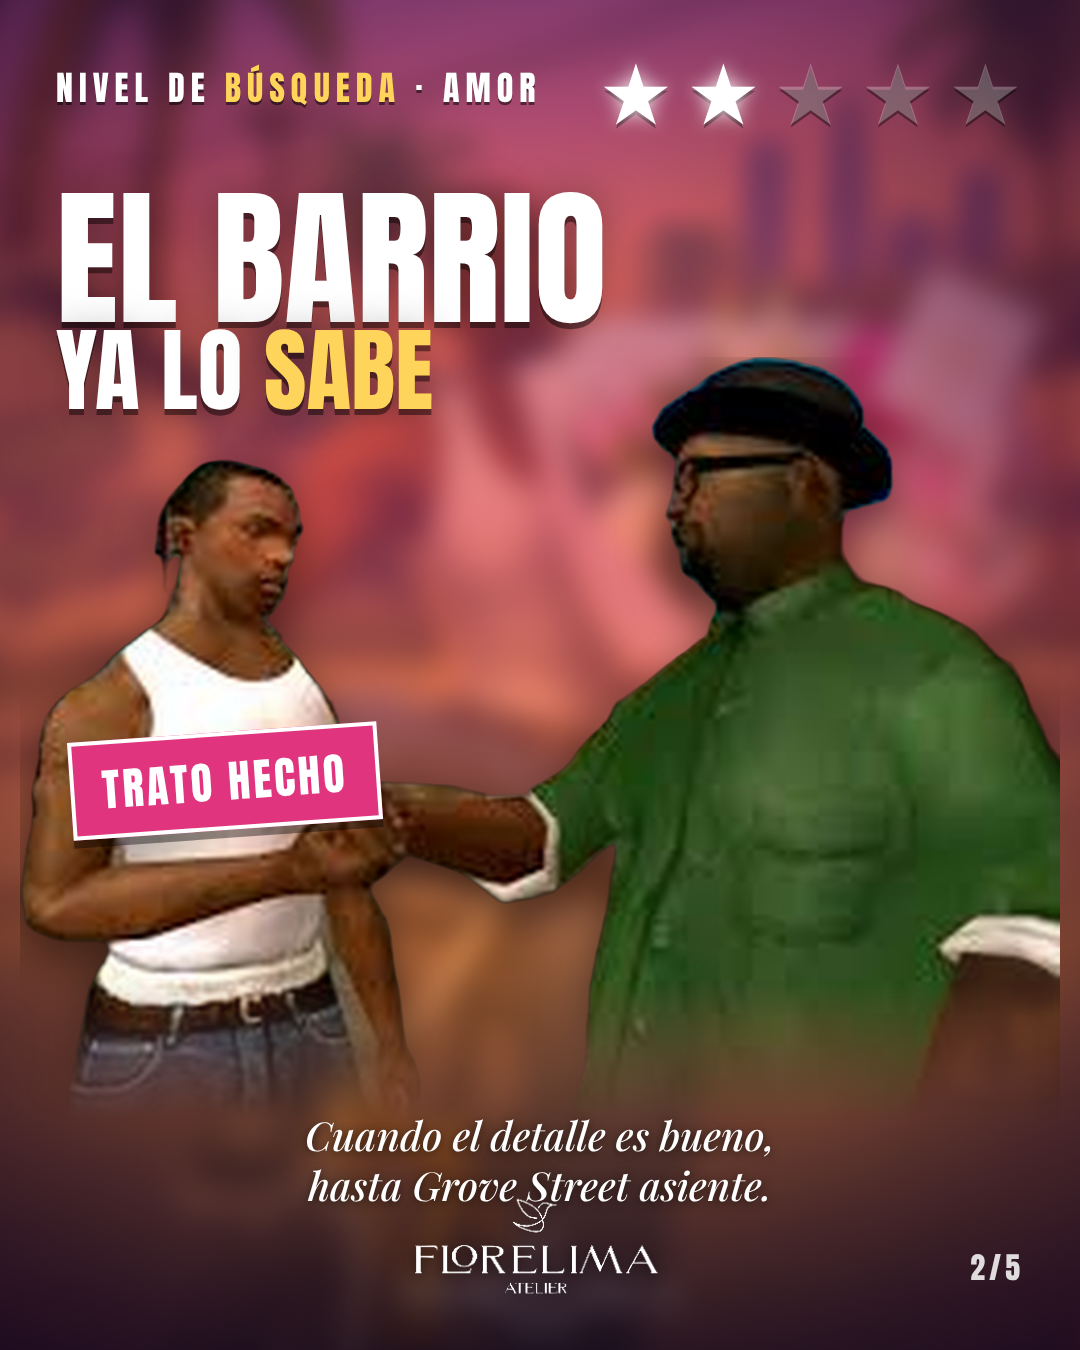
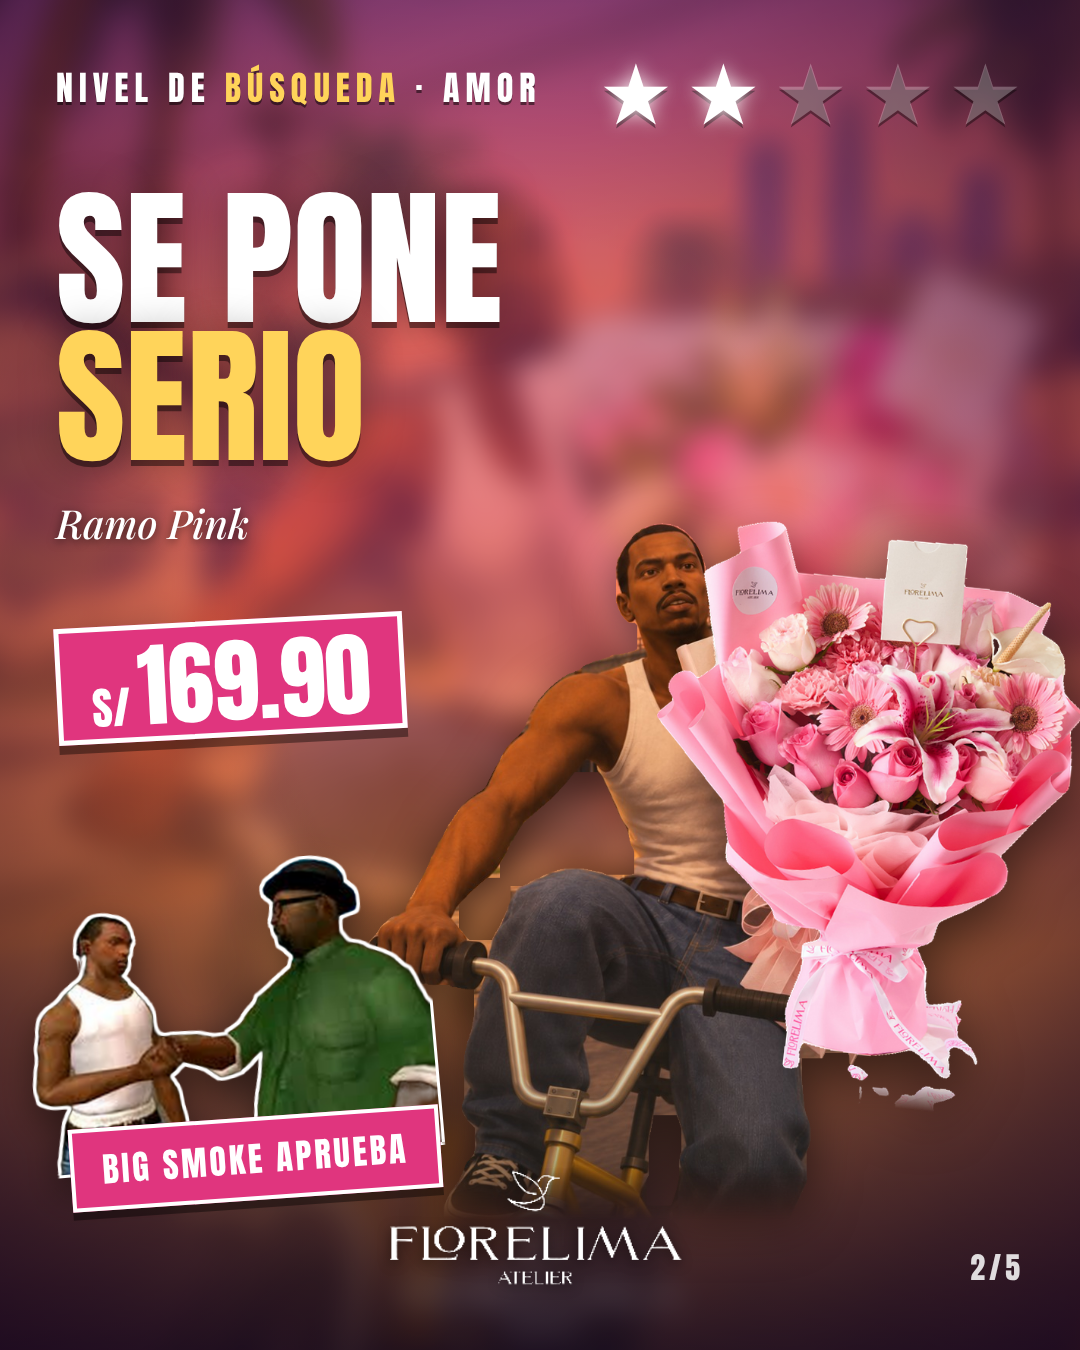
Carrusel Florelima: ramos reales de la tienda por nivel de estrellas, CJ compuesto, precios y CTA
Claude-Session: https://claude.ai/code/session_01N9nPSAgh37LqV2CBGeG2Gv

diff --git a/florelima-carrusel/index.html b/florelima-carrusel/index.html
@@ -1,8 +1,5 @@
 <!DOCTYPE html>
-<html lang="es">
-<head>
-<meta charset="utf-8">
-<title>Florelima Atelier · Carrusel Nivel de Búsqueda</title>
+<html lang="es"><head><meta charset="utf-8"><title>Florelima Atelier · Carrusel Nivel de Búsqueda</title>
 <link rel="preconnect" href="https://fonts.googleapis.com">
 <link href="https://fonts.googleapis.com/css2?family=Anton&family=Playfair+Display:ital,wght@1,500&display=swap" rel="stylesheet">
 <style>
@@ -29,70 +26,75 @@ body{background:#111;display:flex;flex-direction:column;gap:40px;align-items:cen
 .tag{position:absolute;z-index:8;background:var(--rosa);color:#fff;font-size:44px;letter-spacing:3px;padding:12px 28px;border:4px solid #fff;transform:rotate(-4deg);box-shadow:0 8px 0 rgba(0,0,0,.4);text-transform:uppercase}
 .fade{-webkit-mask-image:linear-gradient(#000 82%,transparent);mask-image:linear-gradient(#000 82%,transparent)}
 .cta{position:absolute;left:50%;transform:translateX(-50%);bottom:190px;z-index:9;background:#fff;color:var(--rosa);font-size:54px;letter-spacing:3px;padding:20px 54px;border-radius:999px;box-shadow:0 10px 0 rgba(0,0,0,.4);text-transform:uppercase;white-space:nowrap}
-</style>
-</head>
-<body>
 
-<!-- 1 ★ -->
+.name{position:absolute;left:56px;top:500px;width:400px;z-index:8;font-family:'Playfair Display',Georgia,serif;font-style:italic;font-weight:500;font-size:40px;line-height:1.15;text-shadow:0 2px 10px rgba(0,0,0,.6)}
+.price{position:absolute;left:56px;top:620px;z-index:8;background:var(--rosa);border:5px solid #fff;box-shadow:0 9px 0 rgba(0,0,0,.4);padding:6px 30px 0;font-size:92px;line-height:1.1;transform:rotate(-3deg)}
+.price small{font-size:44px;margin-right:8px}
+.sticker{filter:drop-shadow(3px 0 0 #fff) drop-shadow(-3px 0 0 #fff) drop-shadow(0 3px 0 #fff) drop-shadow(0 -3px 0 #fff) drop-shadow(0 14px 18px rgba(0,0,0,.5)) !important;z-index:6}
+.hint{position:absolute;left:56px;bottom:70px;font-size:34px;letter-spacing:5px;z-index:9;text-shadow:0 3px 0 rgba(0,0,0,.5)}
+</style></head><body>
 <section class="slide" id="s1">
   <div class="bg"></div><div class="vig"></div>
   <div class="wanted">NIVEL DE <b>BÚSQUEDA</b> · AMOR</div>
   <div class="stars"><i class="on">★</i><i>★</i><i>★</i><i>★</i><i>★</i></div>
-  <img class="cut" src="assets/cj_bici.png" style="left:90px;bottom:60px;width:900px;">
-  <div class="title" style="top:190px"><span class="big">Se busca</span><span class="big"><em>un detalle</em></span></div>
-  <div class="sub" style="top:520px;width:480px;">Todo empieza con una estrella. Desliza →</div>
+  <div class="title" style="top:190px"><span class="big">Un</span><span class="big"><em>detalle</em></span></div>
+  <img class="cut" src="assets/cj_ramo_1.png" style="left:174px;bottom:130px;width:800px;">
+  <div class="name">Ramo Corazón Rosado</div>
+  <div class="price"><small>S/</small>85.90</div>
+  <div class="hint">Desliza →</div>
   <img class="logo" src="assets/logo_blanco.png">
   <div class="page">1/5</div>
 </section>
 
-<!-- 2 ★★ -->
 <section class="slide" id="s2">
   <div class="bg"></div><div class="vig"></div>
   <div class="wanted">NIVEL DE <b>BÚSQUEDA</b> · AMOR</div>
   <div class="stars"><i class="on">★</i><i class="on">★</i><i>★</i><i>★</i><i>★</i></div>
-  <div class="title" style="top:190px"><span class="big">El barrio</span><span class="mid">ya lo <em>sabe</em></span></div>
-  <img class="cut fade" src="assets/cj_bigsmoke.png" style="left:20px;bottom:230px;width:1040px;">
-  <div class="tag" style="left:70px;bottom:520px">Trato hecho</div>
-  <div class="sub" style="bottom:140px;text-align:center;">Cuando el detalle es bueno,<br>hasta Grove Street asiente.</div>
-  <img class="logo" src="assets/logo_blanco.png" style="width:300px;bottom:40px">
+  <div class="title" style="top:190px"><span class="big">Se pone</span><span class="big"><em>serio</em></span></div>
+  <img class="cut" src="assets/cj_ramo_2.png" style="left:285px;bottom:130px;width:820px;">
+  <div class="name">Ramo Pink</div>
+  <div class="price"><small>S/</small>169.90</div>
+  <img class="cut sticker" src="assets/cj_bigsmoke.png" style="left:30px;bottom:190px;width:400px;transform:rotate(-5deg)"><div class="tag" style="left:70px;bottom:150px;font-size:34px">Big Smoke aprueba</div>
+  <img class="logo" src="assets/logo_blanco.png">
   <div class="page">2/5</div>
 </section>
 
-<!-- 3 ★★★ -->
 <section class="slide" id="s3">
   <div class="bg"></div><div class="vig"></div>
   <div class="wanted">NIVEL DE <b>BÚSQUEDA</b> · AMOR</div>
   <div class="stars"><i class="on">★</i><i class="on">★</i><i class="on">★</i><i>★</i><i>★</i></div>
-  <div class="title" style="top:190px"><span class="big">Ramo que</span><span class="big">se <em>nota</em></span></div>
-  <img class="cut" src="assets/ramo.png" style="left:190px;bottom:150px;width:700px;transform:rotate(-5deg)">
-  <div class="tag" style="right:60px;top:520px;transform:rotate(5deg)">Hecho a mano</div>
+  <div class="title" style="top:190px"><span class="big">Ya se enteró</span><span class="big"><em>el barrio</em></span></div>
+  <img class="cut" src="assets/cj_ramo_3.png" style="left:155px;bottom:130px;width:840px;">
+  <div class="name">Ramo Amour</div>
+  <div class="price"><small>S/</small>229.90</div>
+  
   <img class="logo" src="assets/logo_blanco.png">
   <div class="page">3/5</div>
 </section>
 
-<!-- 4 ★★★★ -->
 <section class="slide" id="s4">
   <div class="bg"></div><div class="vig"></div>
   <div class="wanted">NIVEL DE <b>BÚSQUEDA</b> · AMOR</div>
   <div class="stars"><i class="on">★</i><i class="on">★</i><i class="on">★</i><i class="on">★</i><i>★</i></div>
-  <img class="cut" src="assets/cj_bici.png" style="left:240px;bottom:90px;width:820px;">
-  <div class="title" style="top:190px"><span class="big">Entrega</span><span class="big"><em>en dos ruedas</em></span></div>
-  <div class="tag" style="left:56px;top:530px">Express</div>
+  <div class="title" style="top:190px"><span class="big">Operativo</span><span class="big"><em>total</em></span></div>
+  <img class="cut" src="assets/cj_ramo_4.png" style="left:150px;bottom:130px;width:850px;">
+  <div class="name">Ramo Blair · Rosas inglesas</div>
+  <div class="price"><small>S/</small>389.90</div>
+  
   <img class="logo" src="assets/logo_blanco.png">
   <div class="page">4/5</div>
 </section>
 
-<!-- 5 ★★★★★ -->
 <section class="slide" id="s5">
   <div class="bg"></div><div class="vig"></div>
   <div class="wanted">NIVEL DE <b>BÚSQUEDA</b> · AMOR</div>
-  <div class="stars hot"><i class="on">★</i><i class="on">★</i><i class="on">★</i><i class="on">★</i><i class="on">★</i></div>
+  <div class="stars"><i class="on">★</i><i class="on">★</i><i class="on">★</i><i class="on">★</i><i class="on">★</i></div>
   <div class="title" style="top:190px"><span class="big">Nivel</span><span class="big"><em>máximo</em></span></div>
-  <img class="cut" src="assets/cj_bici.png" style="left:160px;bottom:220px;width:760px;">
-  <div class="cta">Pide el tuyo</div>
+  <img class="cut" src="assets/cj_ramo_5.png" style="left:146px;bottom:130px;width:860px;">
+  <div class="name">Ramo Majestuoso Amor</div>
+  <div class="price"><small>S/</small>669.90</div>
+  <div class="cta">Pide el tuyo · WhatsApp 933 642 066</div>
   <img class="logo" src="assets/logo_blanco.png">
   <div class="page">5/5</div>
 </section>
-
-</body>
-</html>
+</body></html>
